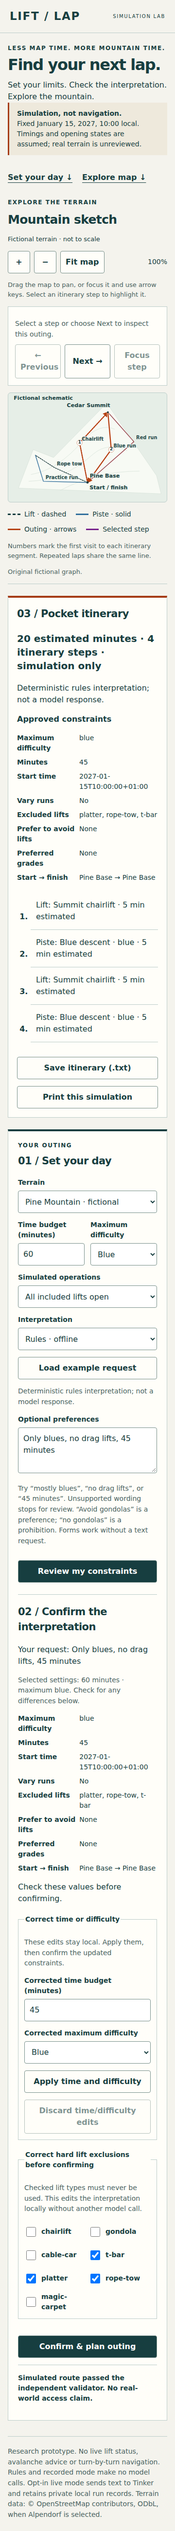
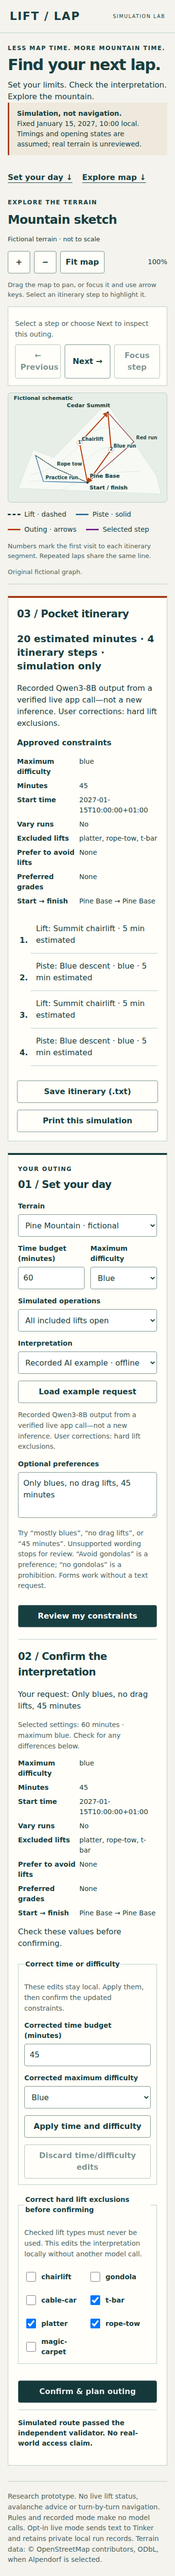
Explain and recover from no-route planning results

Changed region(s): [[0.0306, 0.0, 0.8861, 0.9962], [0.8556, 0.0934, 0.9167, 0.1245], [0.8556, 0.4669, 0.8861, 0.4981]]

diff --git a/web/app.js b/web/app.js
@@ -331,6 +331,67 @@ window.addEventListener('afterprint', () => {
 function syncInterpret() {
   $('interpret').disabled = interpreting || terrainLoading || !graph;
 }
+function clearNoRouteHelp() {
+  $('no-route-help').hidden = true;
+  $('no-route-reasons').replaceChildren();
+  for (const id of [
+    'recovery-operations',
+    'recovery-time',
+    'recovery-difficulty',
+    'recovery-lifts',
+  ])
+    $(id).hidden = true;
+}
+function showNoRouteHelp(r) {
+  const messages = {
+    closed: 'A required edge is closed in this simulated operations scenario.',
+    unknown_status: 'A required edge has unknown simulated status, so it is not used.',
+    not_yet_open: 'A required edge is not open at the selected simulated start time.',
+    closed_before_completion: 'A required edge closes before the outing could complete.',
+    deadline: 'The available time budget is too short for the remaining legal edges.',
+    difficulty: 'The current maximum difficulty excludes edges needed by this bounded search.',
+    excluded_lift: 'The hard lift exclusions remove edges needed by this bounded search.',
+    finish_unreachable:
+      'The selected finish is unreachable in the supplied directed terrain graph.',
+    missing_state: 'The scenario has no status for an edge the planner would need.',
+    unreviewed_edge: 'Unreviewed terrain edges are excluded from this planning mode.',
+  };
+  const reasons = r.reasons && r.reasons.length ? r.reasons : ['bounded_search'];
+  $('no-route-summary').textContent =
+    r.scope === 'finish_unreachable_in_supplied_directed_graph'
+      ? 'The planner checked the supplied terrain graph and could not reach the selected finish.'
+      : 'The deterministic planner checked the current constraints and scenario; it did not find a legal simulated outing.';
+  $('no-route-reasons').replaceChildren(
+    ...reasons.map((reason) => {
+      const li = document.createElement('li');
+      li.textContent = messages[reason] || 'Planner reported: ' + reason + '.';
+      return li;
+    }),
+  );
+  $('recovery-operations').hidden = !reasons.some((x) =>
+    ['closed', 'unknown_status', 'not_yet_open', 'closed_before_completion'].includes(x),
+  );
+  $('recovery-time').hidden = !reasons.some((x) =>
+    ['deadline', 'closed_before_completion'].includes(x),
+  );
+  $('recovery-difficulty').hidden = !reasons.includes('difficulty');
+  $('recovery-lifts').hidden = !reasons.includes('excluded_lift');
+  $('no-route-help').hidden = false;
+}
+for (const [id, target] of [
+  ['recovery-time', 'minutes'],
+  ['recovery-difficulty', 'difficulty'],
+  ['recovery-lifts', 'hard-exclusions'],
+])
+  $(id).addEventListener('click', () =>
+    $(target).scrollIntoView({ behavior: 'smooth', block: 'center' }),
+  );
+$('recovery-operations').addEventListener('click', () => {
+  $('closures').value = 'none';
+  invalidate();
+  clearNoRouteHelp();
+  $('status').textContent = 'Using normal simulated operations. Confirm again to search.';
+});
 async function loadTerrain() {
   closeGeo();
   $('geo-toggle').hidden = mode() !== 'alpendorf';
@@ -408,6 +469,7 @@ $('request-form').addEventListener('submit', async (e) => {
   e.preventDefault();
   if (interpreting || terrainLoading || !graph) return;
   interpreting = true;
+  clearNoRouteHelp();
   invalidate();
   const gen = generation,
     restoreFocus = document.activeElement === $('interpret');
@@ -577,6 +639,7 @@ $('make-plan').addEventListener('click', async () => {
   const gen = generation,
     restoreFocus = document.activeElement === $('make-plan');
   $('make-plan').disabled = true;
+  clearNoRouteHelp();
   $('status').textContent = 'Searching a simulated outing…';
   try {
     const r = await api('/api/plan', { terrain: mode(), intent, closures: $('closures').value });
@@ -590,6 +653,7 @@ $('make-plan').addEventListener('click', async () => {
           : r.status === 'search_limit'
             ? 'Search reached its limit; this does not prove no route exists.'
             : `Planner: ${r.status}`;
+      if (r.status === 'no_route') showNoRouteHelp(r);
       return;
     }
     mapSteps = r.steps;

diff --git a/web/index.html b/web/index.html
@@ -121,6 +121,28 @@
             <button id="make-plan" disabled>Confirm &amp; plan outing</button>
           </section>
           <p id="status" role="status" aria-live="polite">Choose a terrain to begin.</p>
+          <section
+            id="no-route-help"
+            class="recovery-panel"
+            hidden
+            aria-labelledby="no-route-heading"
+          >
+            <h3 id="no-route-heading">Why no outing was found</h3>
+            <p id="no-route-summary"></p>
+            <ul id="no-route-reasons"></ul>
+            <div class="recovery-actions">
+              <button id="recovery-operations" class="secondary" hidden>
+                Use normal simulated operations
+              </button>
+              <button id="recovery-time" class="secondary" hidden>Review time budget</button>
+              <button id="recovery-difficulty" class="secondary" hidden>
+                Review maximum difficulty
+              </button>
+              <button id="recovery-lifts" class="secondary" hidden>
+                Review hard lift exclusions
+              </button>
+            </div>
+          </section>
           <button id="retry-terrain" class="secondary" hidden>Retry terrain loading</button>
         </section>
         <section class="map-panel" aria-labelledby="map-heading">

diff --git a/web/style.css b/web/style.css
@@ -320,6 +320,29 @@ dd {
   border-top: 1px solid var(--line);
   padding-top: 16px;
 }
+.recovery-panel {
+  margin-top: 1rem;
+  padding: 1rem;
+  border: 1px solid var(--line-strong);
+  border-left: 4px solid var(--accent);
+  background: var(--panel-strong);
+}
+.recovery-panel h3 {
+  margin: 0 0 0.4rem;
+}
+.recovery-panel p {
+  margin: 0 0 0.6rem;
+}
+.recovery-panel ul {
+  margin: 0 0 0.8rem;
+  padding-left: 1.25rem;
+}
+.recovery-actions {
+  display: flex;
+  flex-wrap: wrap;
+  gap: 0.5rem;
+}
+
 #hard-exclusions {
   margin: 20px 0;
   padding: 12px;

diff --git a/liftlap/core.py b/liftlap/core.py
@@ -117,9 +117,10 @@ def plan(graph,intent,scenario,*,lab=False,max_states=20000,timeout_s=2,max_edge
         for edge in adj[frontier.pop()]:
             if edge['to'] not in reachable:reachable.add(edge['to']);frontier.append(edge['to'])
     if intent['finish_place_id'] not in reachable:
-        return {'status':'no_route','route':None,'simulated':True,'expanded_states':0,'scope':'finish_unreachable_in_supplied_directed_graph'}
+        return {'status':'no_route','route':None,'simulated':True,'expanded_states':0,
+                'scope':'finish_unreachable_in_supplied_directed_graph','reasons':['finish_unreachable']}
     todo=collections.deque([(intent['start_place_id'],0,[],frozenset(),{})])
-    began=time.monotonic();expanded=0;best=None;best_score=None;limited=False;depth_pruned=False
+    began=time.monotonic();expanded=0;best=None;best_score=None;limited=False;depth_pruned=False;blocked=set()
     while todo:
         if expanded>=max_states or time.monotonic()-began>=timeout_s:limited=True;break
         position,elapsed,path,kinds,visits=todo.popleft();expanded+=1
@@ -135,19 +136,33 @@ def plan(graph,intent,scenario,*,lab=False,max_states=20000,timeout_s=2,max_edge
         if source_count>=max_edges:depth_pruned=True;continue
         for e in adj[position]:
             if source_count+len(e.get('source_edge_ids',[e['id']]))>max_edges:depth_pruned=True;continue
-            if not lab and e.get('review_status') not in {'synthetic','verified'}:continue
+            if not lab and e.get('review_status') not in {'synthetic','verified'}:
+                blocked.add('unreviewed_edge');continue
             if visits.get(e['id'],0)>=max_visits:depth_pruned=True;continue
-            if e['kind']=='piste' and RANK[e['difficulty']]>RANK[intent['hard_max_difficulty']]:continue
-            if e['kind']=='lift' and e['lift_type'] in intent['excluded_lift_types']:continue
+            if e['kind']=='piste' and RANK[e['difficulty']]>RANK[intent['hard_max_difficulty']]:
+                blocked.add('difficulty');continue
+            if e['kind']=='lift' and e['lift_type'] in intent['excluded_lift_types']:
+                blocked.add('excluded_lift');continue
             state=scenario['edges'].get(e['id'])
-            if not state or state['status']!='open':continue
+            if not state:
+                blocked.add('missing_state');continue
+            if state['status']!='open':
+                blocked.add('closed' if state['status']=='closed' else 'unknown_status');continue
             arrival=start+dt.timedelta(seconds=elapsed)
             end=elapsed+state['queue_s']+e['duration_s']
-            if arrival<stamp(state['opens_at']) or end>budget or start+dt.timedelta(seconds=end)>stamp(state['closes_at']):continue
+            if arrival<stamp(state['opens_at']):
+                blocked.add('not_yet_open');continue
+            if end>budget:
+                blocked.add('deadline');continue
+            if start+dt.timedelta(seconds=end)>stamp(state['closes_at']):
+                blocked.add('closed_before_completion');continue
             v=visits.copy();v[e['id']]=v.get(e['id'],0)+1
             todo.append((e['to'],end,path+[e['id']],kinds|{e['kind']},v))
     if best is not None:
         verification=validate_route(graph,intent,scenario,best,lab=lab)
         if not verification['valid']:raise RuntimeError('Planner produced invalid candidate: '+verification['reason'])
         return {'status':'ok','route':best,'simulated':True,'lab':lab,'search_complete':not limited and not depth_pruned,'expanded_states':expanded,'optimality_claim':False,'validation':verification,'preference_tradeoffs':preference_tradeoffs(graph,intent,best)}
-    return {'status':'search_limit' if limited or depth_pruned else 'no_route','route':None,'simulated':True,'expanded_states':expanded,'scope':'bounded_reference_search'}
+    status='search_limit' if limited or depth_pruned else 'no_route'
+    result={'status':status,'route':None,'simulated':True,'expanded_states':expanded,'scope':'bounded_reference_search'}
+    if status=='no_route':result['reasons']=sorted(blocked)
+    return result

diff --git a/tests/test_routing.py b/tests/test_routing.py
@@ -19,6 +19,26 @@ class RoutingTests(unittest.TestCase):
             with self.subTest(status=status):
                 self.s['edges']['chair']['status']=status;self.s['edges']['tow']['status']=status
                 self.assertEqual(plan(self.g,self.i,self.s)['status'],'no_route')
+    def test_no_route_reports_actual_closure_reason(self):
+        for eid in ['chair','tow']: self.s['edges'][eid]['status']='closed'
+        result=plan(self.g,self.i,self.s)
+        self.assertEqual(result['status'],'no_route')
+        self.assertEqual(result['reasons'],['closed'])
+
+    def test_no_route_reports_disconnected_finish_reason(self):
+        self.g['edges']=[e for e in self.g['edges'] if e['to']!='summit']
+        self.i['finish_place_id']='summit'
+        self.s=f.scenario(self.g)
+        result=plan(self.g,self.i,self.s)
+        self.assertEqual(result['reasons'],['finish_unreachable'])
+
+    def test_no_route_reports_actual_time_reason(self):
+        self.i['duration_minutes']=15
+        for eid in ['chair','tow']: self.s['edges'][eid]['queue_s']=1000
+        result=plan(self.g,self.i,self.s)
+        self.assertEqual(result['status'],'no_route')
+        self.assertIn('deadline',result['reasons'])
+
     def test_time_and_queue_make_route_infeasible(self):
         for eid in ['chair','tow']:self.s['edges'][eid]['queue_s']=2000
         self.assertEqual(plan(self.g,self.i,self.s)['status'],'no_route')
